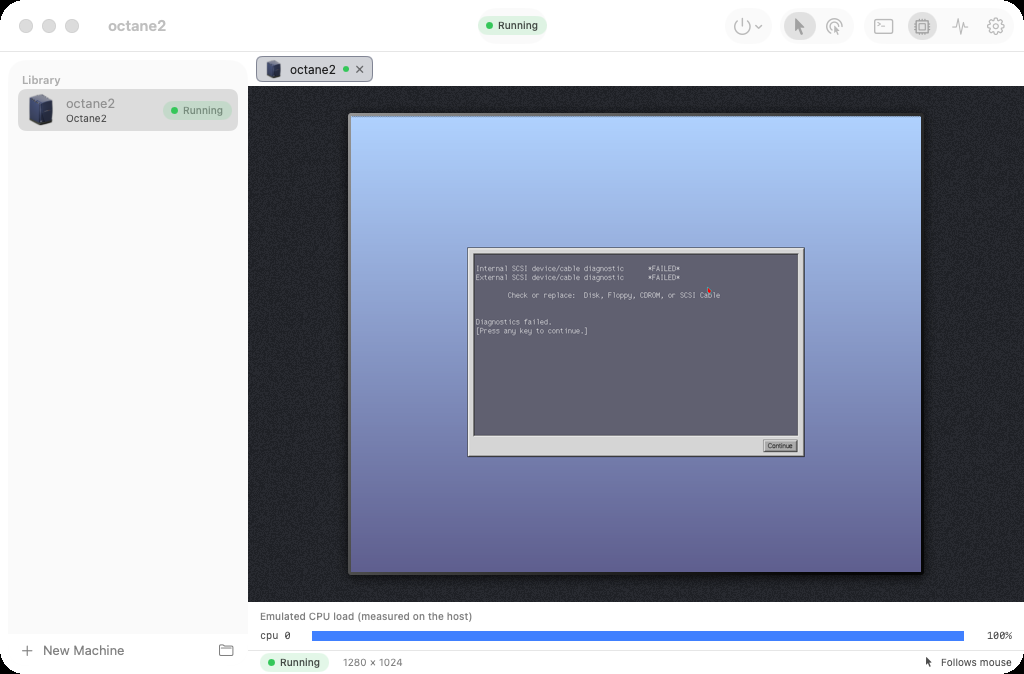
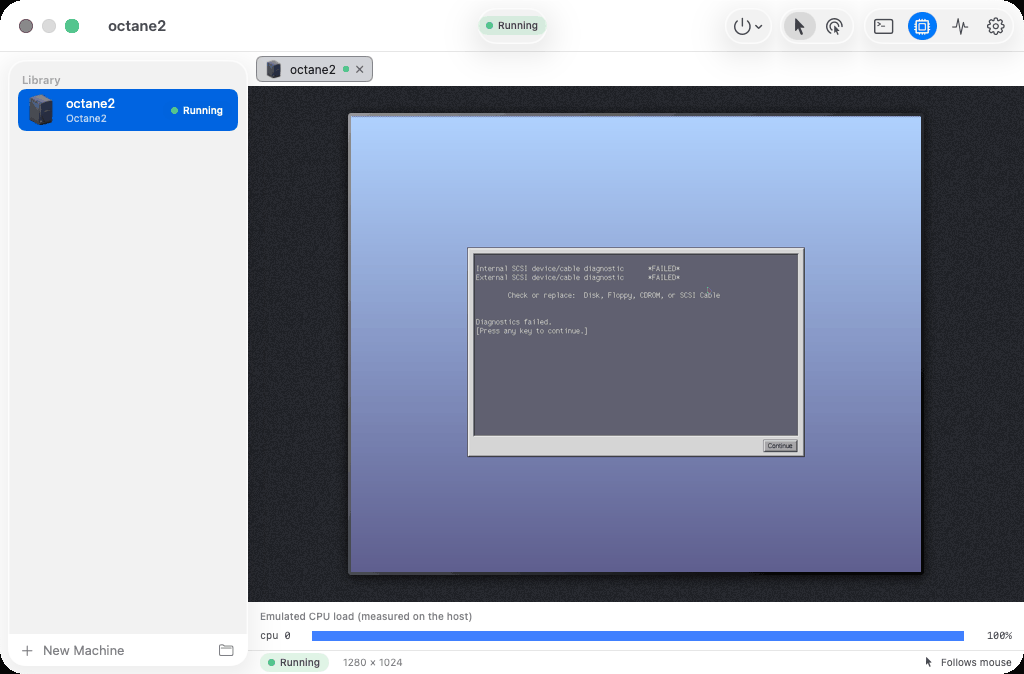
screenshots: take each picture from a focused window, and show the real version
Every macOS picture from the workflow had grey traffic lights and the grey
(inactive) selection in the library, and every About showed 0.0.0.

macOS: the app was a plain child of the build script, so the window server
never made it frontmost. screenshots.sh now starts it through LaunchServices
(open -W). A capture child of that app lacks the script's screen permission,
so the app asks for each capture by file (want-NAME.txt, got-NAME.txt) and
the script's loop runs screencapture. Before each capture the app activates,
makes the window key and waits for isKeyWindow, and the main window's
library list becomes first responder so its selection uses the accent colour.

Windows: before each capture the self-test brings the target window to the
foreground and records whether the OS allowed it (a "foreground for NAME"
step). On the GitHub windows-latest runner it did for both captures.

GTK: before each crop, doc_shot raises the window with xdotool and checks it
has focus. All 11 shots had it under Xvfb with openbox.

Version: the screenshot jobs fetch full history with tags and set
ORIGAMI_VERSION from git describe (0.6.0-1-gc000960 on a side branch). The
GTK About reads it at build time (Cargo's version stays the fallback), the
macOS build writes it into Info.plist, and the Windows build passes its
numeric part as the assembly version, since that is what About prints. The
release build (xtask) now passes the product version to the GTK and Windows
[…]

diff --git a/apps/macos/Sources/Selftest/DocsShots.swift b/apps/macos/Sources/Selftest/DocsShots.swift
@@ -29,16 +29,27 @@ func runDocsShots(library: String, out: String) {
     }
     /// The window as the screen shows it, from the window server, with no shadow.
     func capture(_ win: NSWindow, _ name: String, settle: Double = 3, hide: Bool = true, after: (() -> Void)? = nil) {
-        win.makeKeyAndOrderFront(nil)
+        func activate() {
+            NSApp.activate(ignoringOtherApps: true)
+            win.makeKeyAndOrderFront(nil)
+            win.makeKey()
+        }
+        activate()
         spin(2)
         after?()
         spin(settle)
+        // An inactive window draws grey traffic lights and the grey selection: wait for key before capturing.
+        activate()
+        if !waitFor(10, { win.isKeyWindow && NSApp.isActive }) {
+            FileHandle.standardError.write(Data("docs-shots: \(name): window is not key (app active \(NSApp.isActive))\n".utf8))
+        }
+        spin(0.5)
         let file = "\(out)/\(name).png"
-        let p = Process()
-        p.executableURL = URL(fileURLWithPath: "/usr/sbin/screencapture")
-        p.arguments = ["-x", "-o", "-l", "\(win.windowNumber)", file]
-        try? p.run(); p.waitUntilExit()
-        guard p.terminationStatus == 0, FileManager.default.fileExists(atPath: file) else { fail("screencapture of \(name) failed (status \(p.terminationStatus))") }
+        // The app is started through LaunchServices to be frontmost, and a window server capture needs the launcher's
+        // permission, not ours: the script that started us takes it when asked by file (want-NAME.txt, then got-NAME.txt).
+        try? "\(win.windowNumber)".write(toFile: "\(out)/want-\(name).txt", atomically: true, encoding: .utf8)
+        guard waitFor(60, { FileManager.default.fileExists(atPath: "\(out)/got-\(name).txt") }),
+              FileManager.default.fileExists(atPath: file) else { fail("the capture of \(name) was not made") }
         if hide { win.orderOut(nil) }
     }
 
@@ -66,6 +77,12 @@ func runDocsShots(library: String, out: String) {
         guard let tiff = result.tiffRepresentation, let png = NSBitmapImageRep(data: tiff)?.representation(using: .png, properties: [:]) else { fail("cannot encode \(name)") }
         try? png.write(to: URL(fileURLWithPath: file))
         try? FileManager.default.removeItem(at: guest)
+    }
+
+    /// The library list draws its selection in the accent colour only while it is the first responder.
+    func focusLibrary(_ win: NSWindow) {
+        func table(_ v: NSView) -> NSTableView? { (v as? NSTableView) ?? v.subviews.lazy.compactMap(table).first }
+        if let content = win.contentView, let t = table(content) { win.makeFirstResponder(t) }
     }
 
     #if FAKE
@@ -102,7 +119,7 @@ func runDocsShots(library: String, out: String) {
     guard let model = app.models.first else { fail("no machine in \(library)") }
     app.select(model.id)
     let main = window("Origami", MainView(), 1100, 720)
-    capture(main, "macos-library", hide: false)
+    capture(main, "macos-library", hide: false, after: { focusLibrary(main) })
 
     var started = false
     model.start { _ in started = true }
@@ -113,10 +130,10 @@ func runDocsShots(library: String, out: String) {
     guard waitFor(120, { model.state == .running }) else { fail("the machine did not reach Running (\(model.state.pill))") }
     // The PROM takes a while to draw its menu.
     spin(90)
-    capture(main, "macos-running", settle: 3, hide: false)
+    capture(main, "macos-running", settle: 3, hide: false, after: { focusLibrary(main) })
     laidOverPicture(main, model, "macos-running")
     app.showsCpu = true
-    capture(main, "macos-cpu-panel", settle: 4, hide: false)
+    capture(main, "macos-cpu-panel", settle: 4, hide: false, after: { focusLibrary(main) })
     laidOverPicture(main, model, "macos-cpu-panel")
     app.showsCpu = false
     capture(window("Diagnostics", DiagnosticsView(), 640, 400), "macos-diagnostics")

diff --git a/apps/windows/Origami.App/QemuSelftest.cs b/apps/windows/Origami.App/QemuSelftest.cs
@@ -47,6 +47,10 @@ public static class Selftest
     {
         // Only the capture workflow answers these requests; a release self-test has no one to ask.
         if (Environment.GetEnvironmentVariable("ORIGAMI_CAPTURES") != "1") return;
+        // An inactive window draws its title bar greyed: bring the target to the front first and record whether the OS allowed it.
+        Win.Foreground(hwnd);
+        var front = await Until(() => Win.IsForeground(hwnd), 3000);
+        Add("foreground for " + name, true, front ? "foreground" : $"not foreground (fg=0x{Win.ForegroundHandle().ToInt64():x}, target=0x{hwnd.ToInt64():x})");
         File.WriteAllText(Path.Combine(dir, $"want-{name}.txt"), hwnd.ToInt64().ToString());
         Add("capture " + name, await Until(() => File.Exists(Path.Combine(dir, $"got-{name}.txt")), 20_000));
     }
@@ -166,6 +170,10 @@ public static class Selftest
         if (disp.Verify(out _) is { } rb) Add("fallback readback taken", true, $"{rb.Length} bytes");
         try { await Shot.Xaml((Microsoft.UI.Xaml.UIElement)w.Content, Path.Combine(dir, "xaml.png")); } catch { }
 
+        // The workflow's window capture of the running app follows: an inactive window draws its title bar greyed.
+        Win.Foreground(w.Hwnd);
+        var front = await Until(() => Win.IsForeground(w.Hwnd), 3000);
+        Add("foreground for window", true, front ? "foreground" : $"not foreground (fg=0x{Win.ForegroundHandle().ToInt64():x})");
         File.WriteAllText(Path.Combine(dir, "ready.txt"), "ready");
         await Until(() => File.Exists(Path.Combine(dir, "done.txt")), 15_000);
 

diff --git a/xtask/src/app.rs b/xtask/src/app.rs
@@ -89,7 +89,7 @@ fn pack_app(product: &Product, stage: &Path) -> Result<()> {
 
 fn linux(product: &Product) -> Result<()> {
     require("crates/origami-gtk", "the GTK app")?;
-    run(cargo(&[
+    let mut build = cargo(&[
         "build",
         "--release",
         "--locked",
@@ -103,7 +103,10 @@ fn linux(product: &Product) -> Result<()> {
         "origami",
         "--features",
         "origami-gtk/iris,origami/iris",
-    ]))?;
+    ]);
+    // The About window shows this; Cargo's own version is a placeholder.
+    build.env("ORIGAMI_VERSION", product.version);
+    run(build)?;
     archive::copy_file(
         &target_dir().join("release/origami-gtk"),
         &product.stage.join("bin/origami-gtk"),
@@ -215,7 +218,13 @@ fn windows(product: &Product, options: &crate::Options) -> Result<()> {
     dotnet
         .args(["publish"])
         .arg(app_project.join("Origami.App.csproj"))
-        .args(["-c", "Release", "-p:Platform=x64", "-p:Qemu=true", "-o"])
+        .args(["-c", "Release", "-p:Platform=x64", "-p:Qemu=true"])
+        // The assembly version is numeric: the tag part of the description.
+        .arg(format!(
+            "-p:Version={}",
+            product.version.split('-').next().unwrap_or("0.0.0")
+        ))
+        .arg("-o")
         .arg(&publish);
     run(dotnet)?;
     archive::copy_tree(&publish, &product.stage.join("app"))?;

diff --git a/crates/origami-gtk/ci/driver.py b/crates/origami-gtk/ci/driver.py
@@ -1037,6 +1037,11 @@ def doc_shot(name, title="Origami"):
     if not ids:
         check("a window titled %s to photograph for %s" % (title, name), False, sh("wmctrl", "-l").stdout)
         return
+    # A window without focus draws in its backdrop state (dimmed header): raise it and check it has focus.
+    sh("xdotool", "windowactivate", "--sync", ids[-1])
+    time.sleep(0.5)
+    focused = sh("xdotool", "getwindowfocus").stdout.strip()
+    check("%s has focus when photographed" % name, focused == ids[-1], [focused, ids[-1]])
     g = dict(l.split("=") for l in sh("xdotool", "getwindowgeometry", "--shell", ids[-1]).stdout.split())
     root = shot("_root")
     p = os.path.join(out, name + ".png")

diff --git a/crates/origami-gtk/src/window.rs b/crates/origami-gtk/src/window.rs
@@ -1366,7 +1366,7 @@ pub fn rebuild_hero(m: &Rc<MachineUi>) {
 /// The About window: the cube on granite, the version and the photographs'
 /// credits. Without a GPU for the cube it is the stock dialog.
 fn about(app: &Rc<App>, parent: &adw::ApplicationWindow) {
-    let version = env!("CARGO_PKG_VERSION");
+    let version = option_env!("ORIGAMI_VERSION").unwrap_or(env!("CARGO_PKG_VERSION"));
     let dark = adw::StyleManager::default().is_dark();
     let scene = crate::cube::about_scene();
     let Some(cube) = crate::cube::Cube::new(160, crate::cube::about_style(dark, scene)) else {
